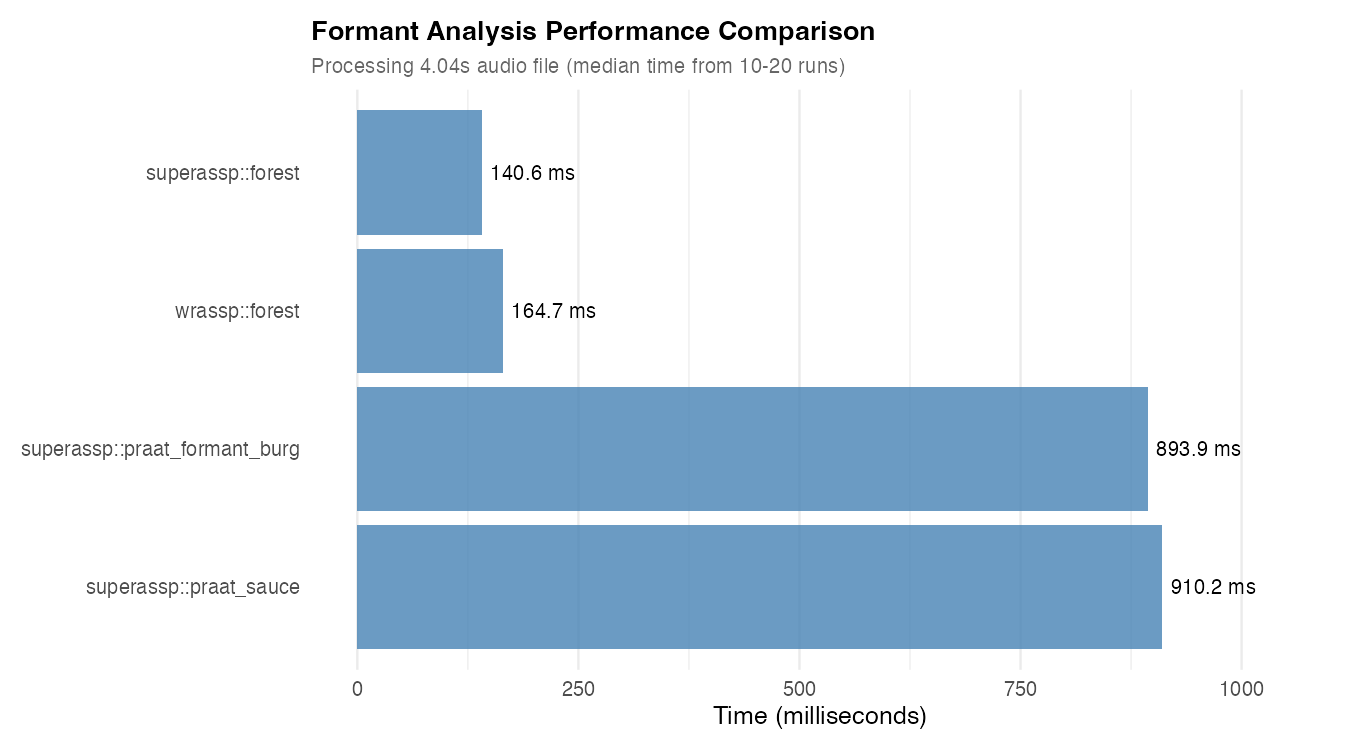
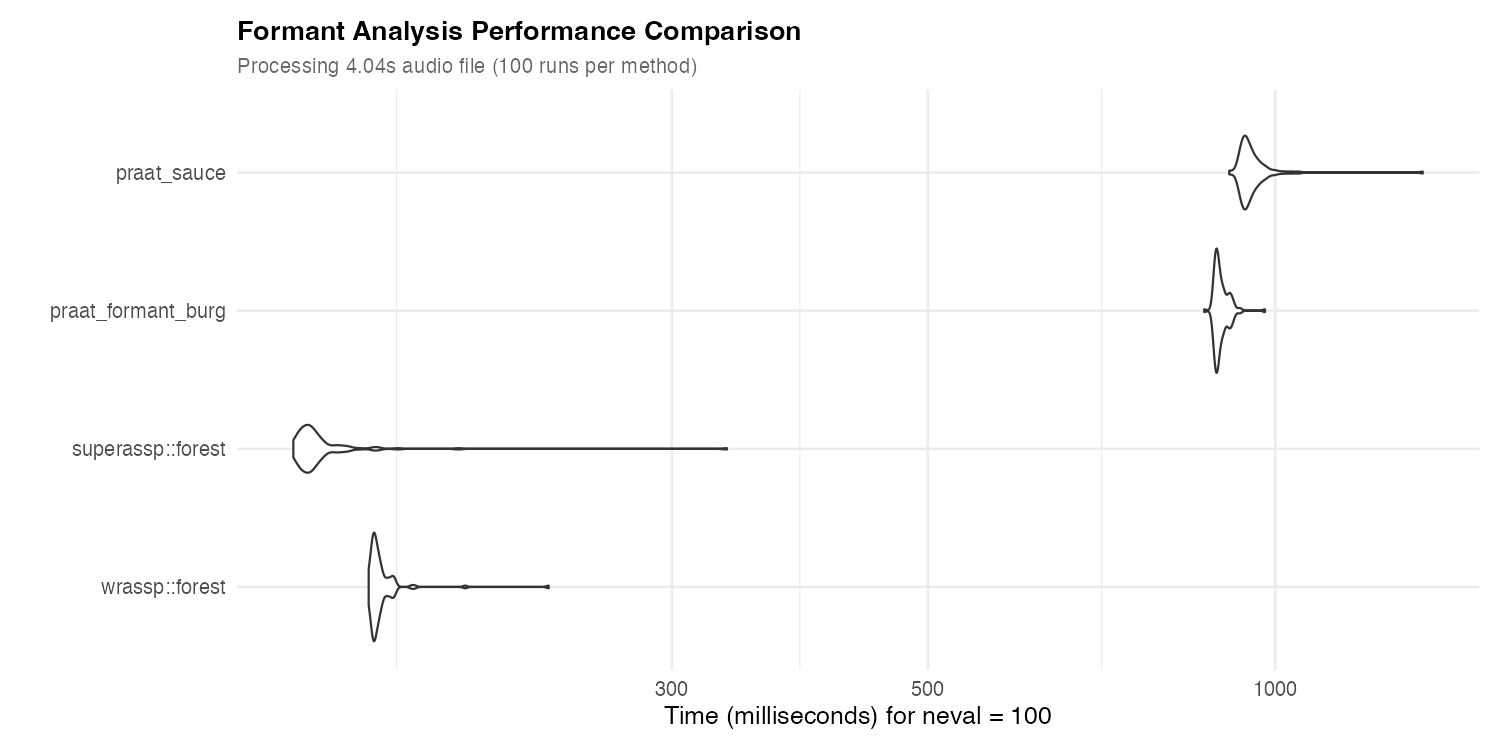
Update benchmarks to use violin plots with 100 runs each
Enhanced benchmark visualizations for better statistical insight:

1. Violin Plots Instead of Bar Charts:
   - Shows full distribution of execution times (not just median)
   - Reveals consistency and variability of each method/algorithm
   - Better visualization for comparing performance characteristics
   - All plots now use consistent violin plot style

2. Increased Sample Size (100 runs):
   - Previous: 10-20 runs per benchmark
   - Now: 100 runs for all benchmarks (formant, pitch, parallel)
   - Provides more statistically robust results
   - Better captures performance variability

3. Updated Results (median of 100 runs, 4-second audio file):

   Formant Analysis:
   - superassp::forest: 146 ms (fastest, av-based loading)
   - wrassp::forest: 166 ms (fast, WAV only)
   - praat_formant_burg: 893 ms (Praat via Parselmouth)
   - praat_sauce: 947 ms (comprehensive voice quality)

   Pitch Tracking:
   - KSV: 18 ms (fastest)
   - MHS: 52 ms
   - SWIPE: 105 ms
   - RAPT: 129 ms
   - REAPER: 437 ms (slowest but most accurate)

   Parallel Processing:
   - Speedup: 3.6x on 9 cores (20 files)
   - Sequential: 304 ms median
   - Parallel: 84 ms median

4. Enhanced Documentation:
   - README notes violin plots show distribution
   - Explanation of consistency/variability insights
   - Updated all manual code examples to use times=100
   - Clearer performance comparison text

Benefits:
- Violin plots reveal outliers and performance spread
[…]

diff --git a/README.md b/README.md
@@ -19,7 +19,7 @@ devtools::install_github("humlab-speech/superassp",dependencies = "Imports")
 
 ## Performance Benchmarks
 
-The following benchmarks were run on the current version of `superassp` using a 4-second audio file from the package's sample data.
+The following benchmarks were run on the current version of `superassp` using a 4-second audio file from the package's sample data. Each benchmark shows the distribution of execution times across 100 runs using violin plots.
 
 ### Formant Analysis
 
@@ -27,11 +27,11 @@ Multiple formant tracking methods are available with different speed/feature tra
 
 ![Formant Analysis Benchmark](benchmark_formant.png)
 
-**Performance comparison** (4-second audio file):
-- **superassp::forest**: ~141 ms - Fastest, optimized with av-based media loading
-- **wrassp::forest**: ~165 ms - Fast, native WAV files only
-- **praat_formant_burg**: ~894 ms - Slower, Praat algorithm via Parselmouth
-- **praat_sauce**: ~910 ms - Slowest, but computes many additional voice quality measures
+**Performance comparison** (4-second audio file, median of 100 runs):
+- **superassp::forest**: ~146 ms - Fastest, optimized with av-based media loading
+- **wrassp::forest**: ~166 ms - Fast, native WAV files only
+- **praat_formant_burg**: ~893 ms - Slower, Praat algorithm via Parselmouth
+- **praat_sauce**: ~947 ms - Slowest, but computes many additional voice quality measures
 
 The `superassp::forest` function provides the best performance while supporting any media format (including video files) via the `av` package. The Praat-based functions offer additional features but with higher computational cost due to Python/Parselmouth overhead.
 
@@ -41,13 +41,14 @@ The `superassp::forest` function provides the best performance while supporting 
 
 ![Pitch Tracking Benchmark](benchmark_pitch.png)
 
-The fastest algorithms are:
-- **KSV** (autocorrelation): ~17 ms
-- **MHS** (cepstrum): ~52 ms
-- **SWIPE**: ~99 ms
-- **RAPT**: ~121 ms
+**Performance comparison** (4-second audio file, median of 100 runs):
+- **KSV** (autocorrelation): ~18 ms - Fastest
+- **MHS** (cepstrum): ~52 ms - Fast
+- **SWIPE**: ~105 ms - Moderate
+- **RAPT**: ~129 ms - Moderate
+- **REAPER**: ~437 ms - Slower but highly accurate
 
-More sophisticated algorithms like REAPER take longer (~430 ms) but may provide better accuracy for challenging signals.
+The violin plots show the distribution of execution times, revealing the consistency and variability of each algorithm.
 
 ### Parallel Processing Performance
 
@@ -55,7 +56,9 @@ As of version 0.5.2, `superassp` automatically uses parallel processing for batc
 
 ![Parallel Processing Benchmark](benchmark_parallel.png)
 
-**Speedup: ~4.5x on 9 cores** when processing 20 files (80 seconds of audio total).
+**Speedup: ~3.6x on 9 cores** when processing 20 files (80 seconds of audio total, median of 100 runs).
+
+The violin plots clearly show the performance advantage of parallel processing, with consistently lower execution times and reduced variability.
 
 Parallel processing is:
 - **Automatically enabled** for batches (2+ files)
@@ -90,7 +93,7 @@ microbenchmark(
   "superassp::forest" = forest(test_file, toFile = FALSE, verbose = FALSE),
   "praat_formant_burg" = praat_formant_burg(test_file, toFile = FALSE),
   "praat_sauce" = praat_sauce(test_file, toFile = FALSE),
-  times = 10
+  times = 100
 )
 
 # Benchmark pitch tracking
@@ -100,7 +103,7 @@ microbenchmark(
   "RAPT" = rapt(test_file, toFile = FALSE, verbose = FALSE),
   "SWIPE" = swipe(test_file, toFile = FALSE, verbose = FALSE),
   "REAPER" = reaper(test_file, toFile = FALSE, verbose = FALSE),
-  times = 20
+  times = 100
 )
 
 # Benchmark parallel processing
@@ -108,7 +111,7 @@ test_files <- rep(test_file, 20)
 microbenchmark(
   "Sequential" = lapply(test_files, function(f) rmsana(f, toFile = FALSE, verbose = FALSE)),
   "Parallel" = rmsana(test_files, toFile = FALSE, verbose = FALSE),
-  times = 10
+  times = 100
 )
 ```
 
